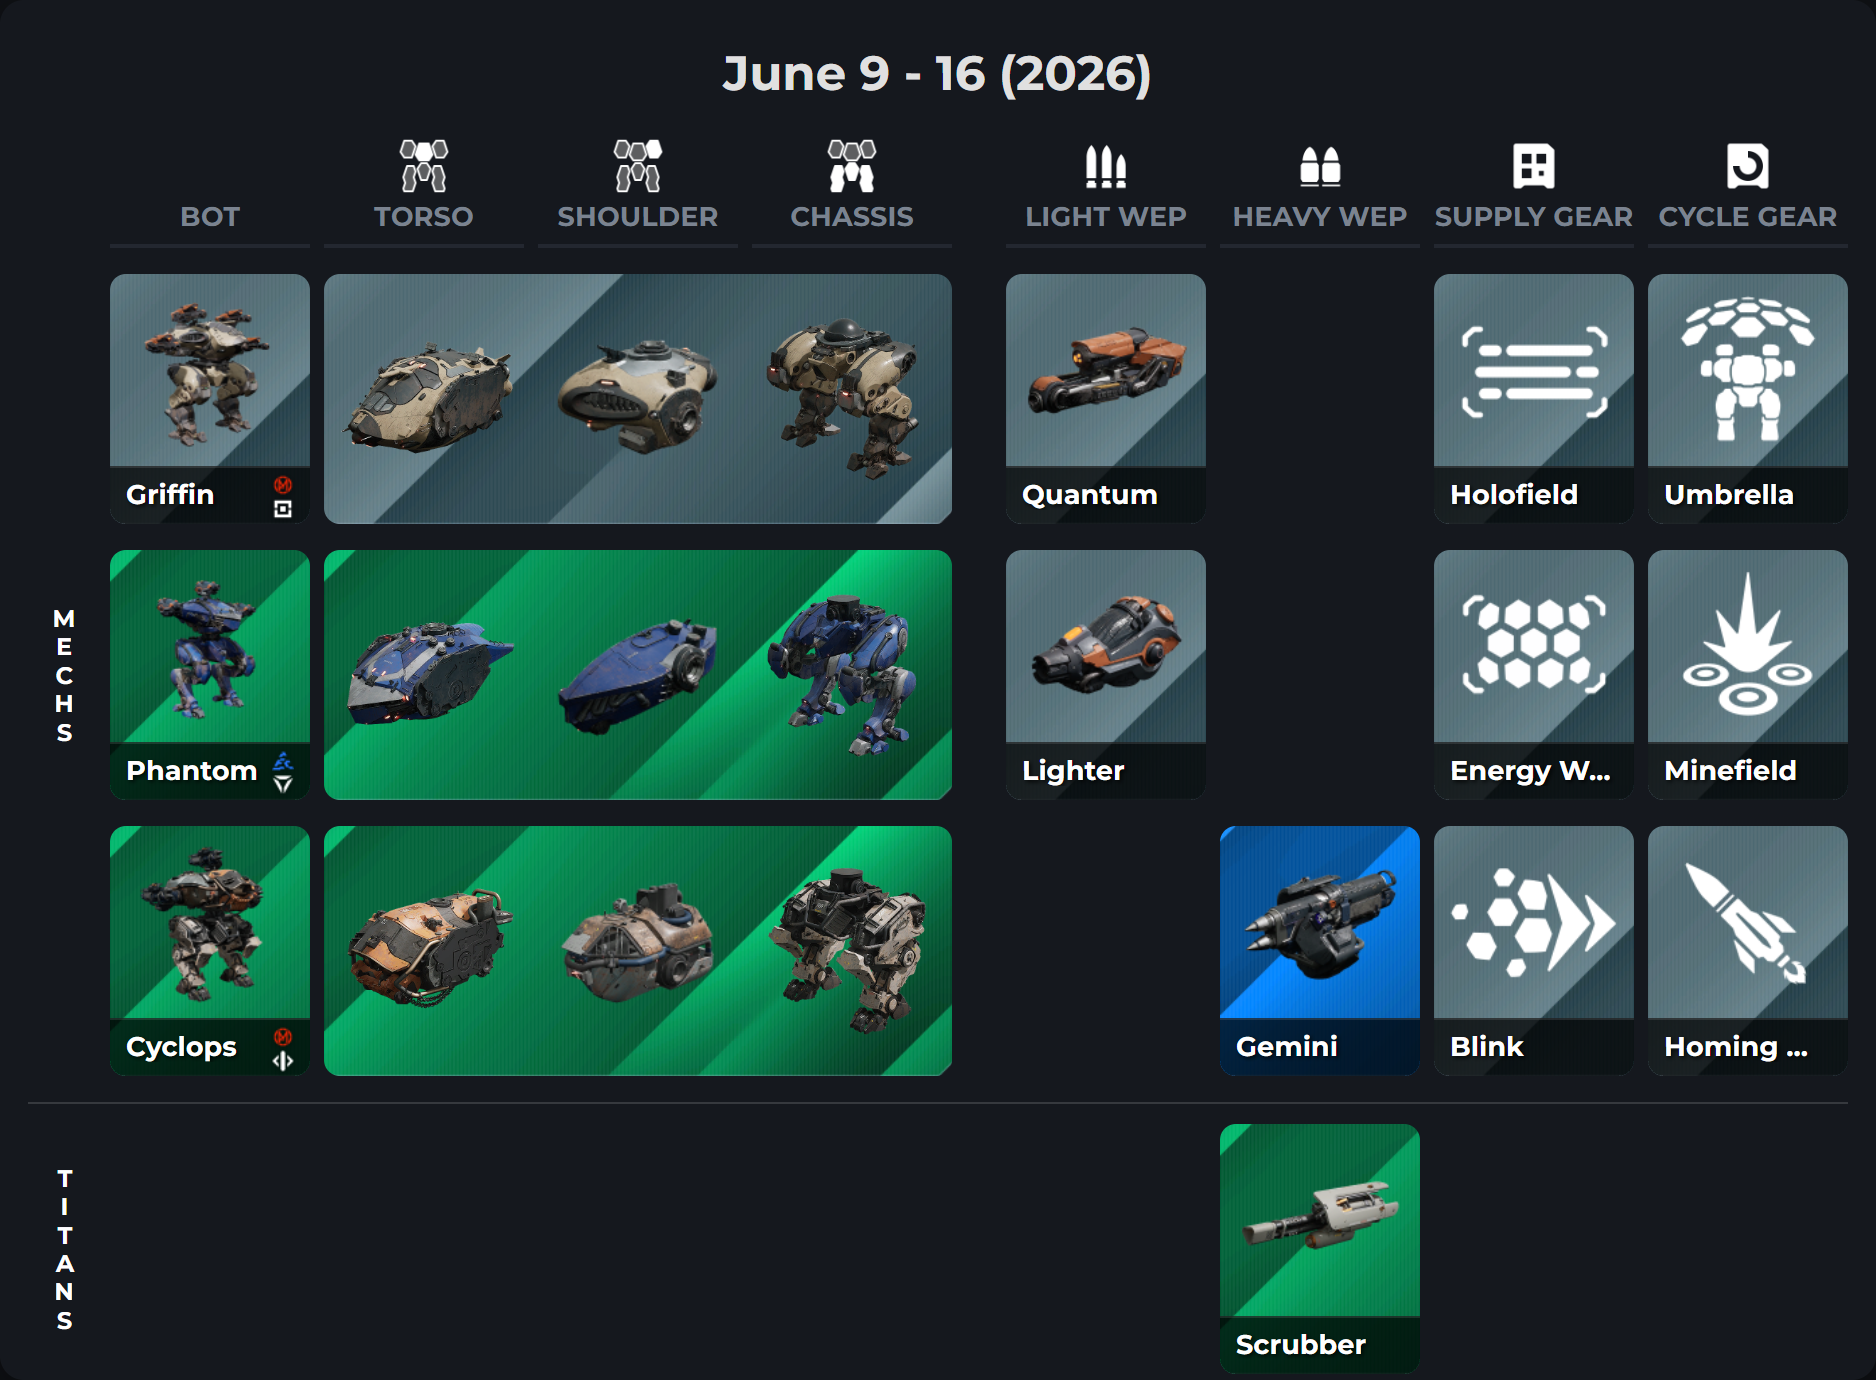
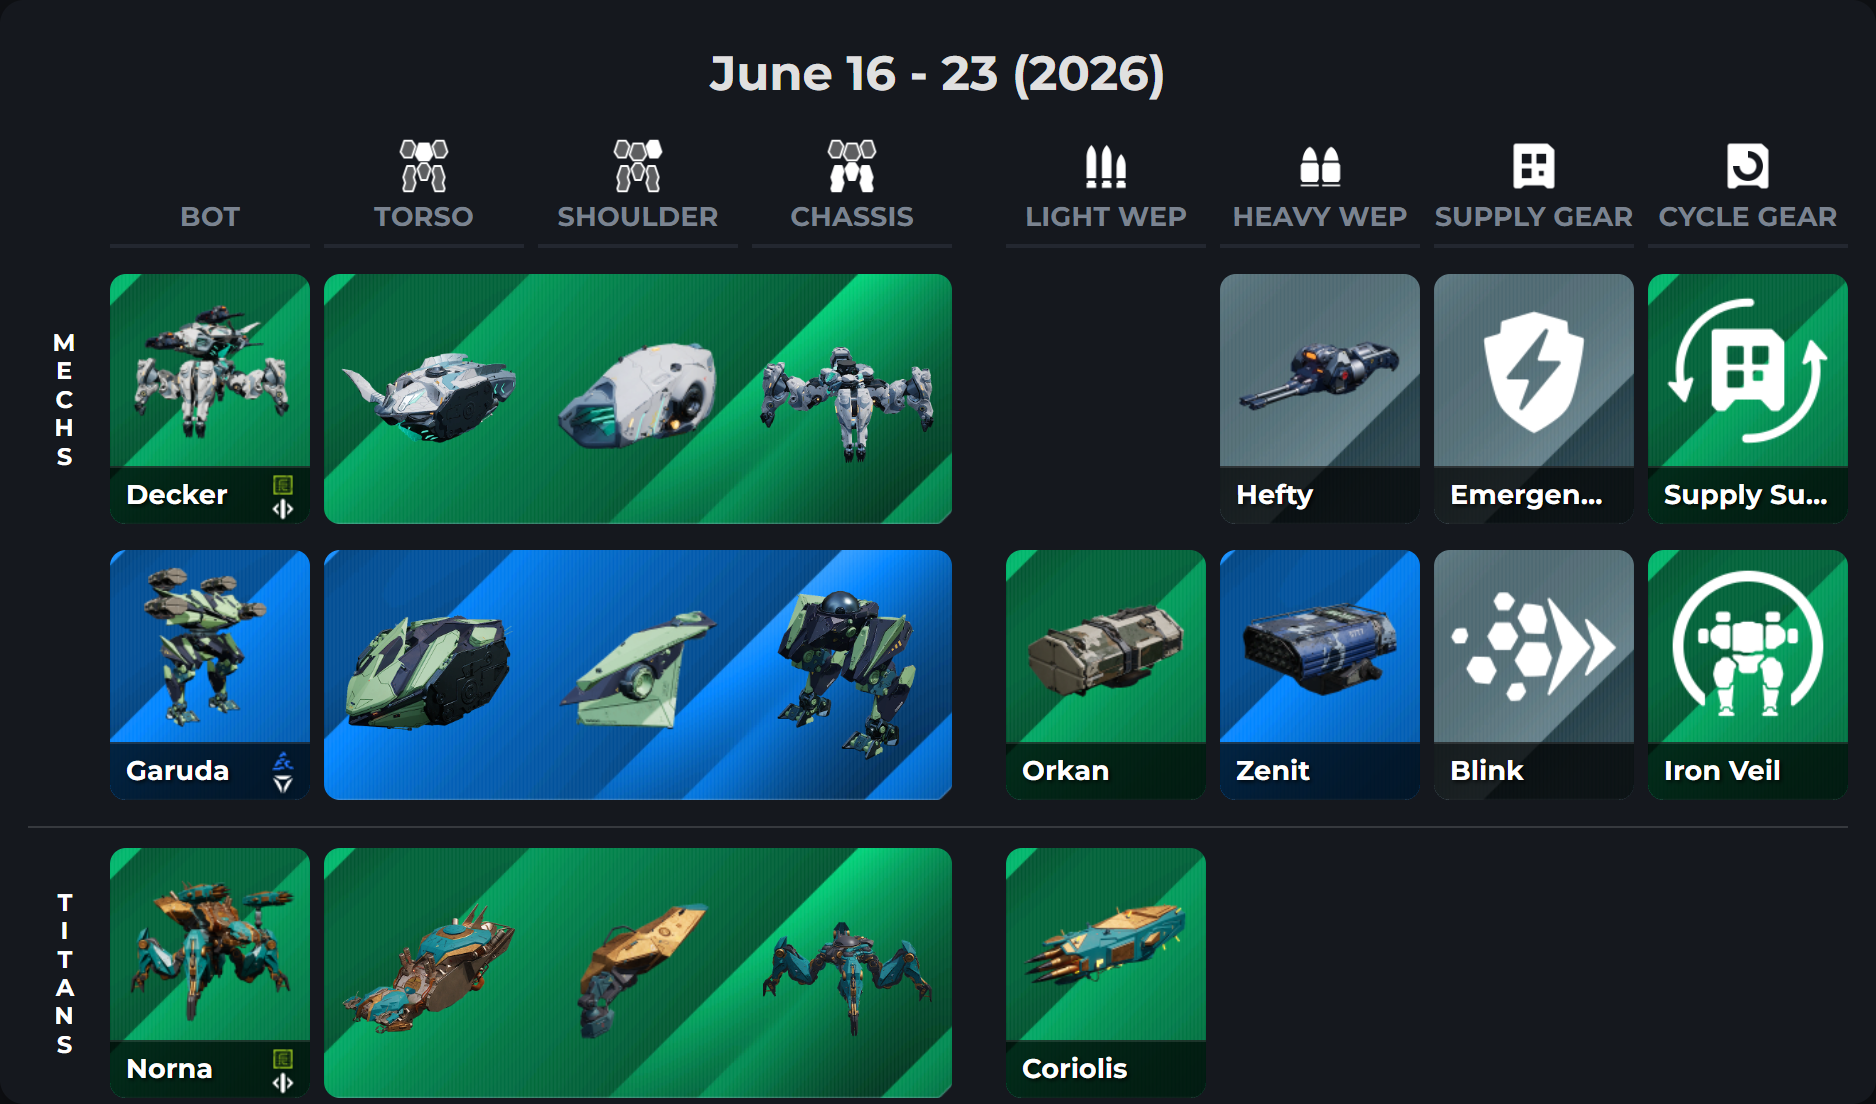
Workflow fixes & discounts for 06-16-2026 (#37)

diff --git a/src/backend/step3_call_gemini.py b/src/backend/step3_call_gemini.py
@@ -67,7 +67,7 @@ def call_gemini_cli(target_date_range: str | None = None, item_names: str | None
             cwd=str(PROMPT_DIR),
             capture_output=True,
             text=True,
-            timeout=300,
+            timeout=600,
         )
         if result.returncode != 0:
             print(f"  [ERROR] Gemini CLI exited with code {result.returncode}")
@@ -87,7 +87,7 @@ def call_gemini_cli(target_date_range: str | None = None, item_names: str | None
         )
         sys.exit(1)
     except subprocess.TimeoutExpired:
-        print("  [ERROR] Gemini CLI timed out after 300 seconds.")
+        print("  [ERROR] Gemini CLI timed out after 10 minutes.")
         sys.exit(1)
 
 
@@ -97,6 +97,7 @@ def run_step(target_date_range: str | None = None, item_names: str | None = None
 
 if __name__ == "__main__":
     # If run standalone, we can optionally parse target_date_range from sys.argv
-    arg = sys.argv[1] if len(sys.argv) > 1 else None
-    run_step(arg)
+    target_date_range = sys.argv[1] if len(sys.argv) > 1 else None
+    item_names = sys.argv[2] if len(sys.argv) > 2 else None
+    run_step(target_date_range, item_names)
 